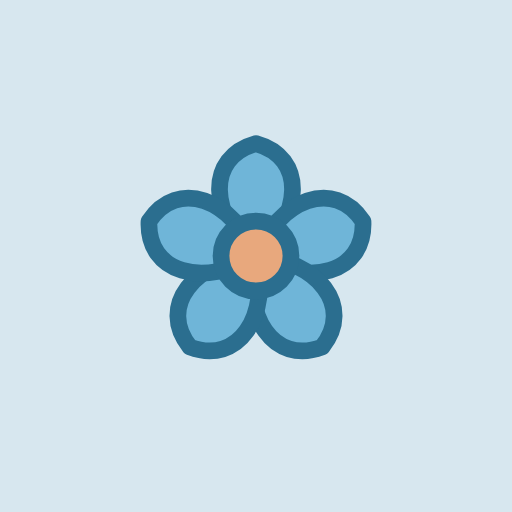
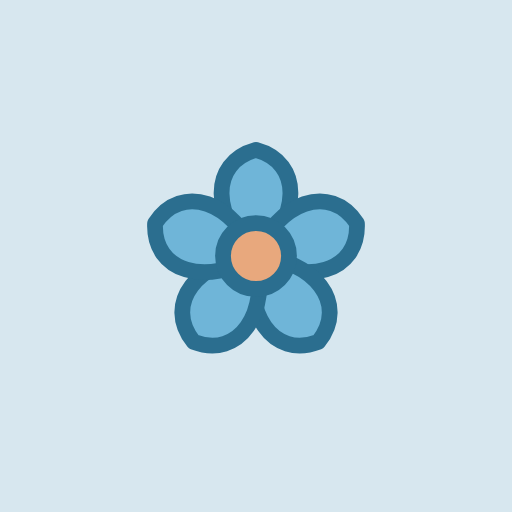
maskable 重做并删重复图标
- icon-maskable-512.png 与 icon-maskable.svg 按主站规格重做，花朵占画布 43%，边距与其余四站一致
- 删除 icons/favicon.svg，内容与 icon.svg 逐字节相同
- 新增 icons/preview.html
- background_color 由 #f6f9fc 改为 #EEF5F8

Changed region(s): [[0.25, 0.25, 0.75, 0.7188], [0.4062, 0.4375, 0.5938, 0.5938], [0.4688, 0.4062, 0.5312, 0.4688]]

diff --git a/icons/preview.html b/icons/preview.html
@@ -1,0 +1,354 @@
+<!DOCTYPE html>
+<html lang="zh-CN">
+<head>
+<meta charset="utf-8">
+<meta name="viewport" content="width=device-width, initial-scale=1">
+<title>数学错题本 · 图标预览</title>
+<link rel="icon" href="icon.svg" type="image/svg+xml">
+<link rel="icon" type="image/png" sizes="32x32" href="favicon-32.png">
+<link rel="apple-touch-icon" href="apple-touch-icon.png">
+<style>
+  :root{
+    --ink:#2B6E8F; --ink2:#377B9C; --muted:#6597B0; --faint:#81AABF;
+    --acc:#6FB5D8; --bg:#D7E7EF; --card:#FAFCFD;
+    --line:#AAC8D6; --line2:#B8D1DE;
+    --h1:#C6DBE5; --h2:#CDE0E9; --h3:#F0F6F9;
+  }
+  *{box-sizing:border-box}
+  body{
+    margin:0;padding:34px 22px 70px;
+    background:radial-gradient(900px 420px at 50% -80px,var(--h3),rgba(255,255,255,0)),var(--bg);
+    color:var(--ink2);
+    font-family:-apple-system,BlinkMacSystemFont,"Segoe UI","PingFang SC","Microsoft YaHei",sans-serif;
+    -webkit-font-smoothing:antialiased;
+  }
+  .wrap{max-width:900px;margin:0 auto}
+  header{display:flex;align-items:center;gap:16px;margin-bottom:4px}
+  header img{width:56px;height:56px;border-radius:13px;box-shadow:0 6px 18px rgba(0,0,0,.14)}
+  h1{margin:0;font-size:21px;color:var(--ink);letter-spacing:.3px}
+  .sub{margin:5px 0 0;font-size:12px;color:var(--muted)}
+  h2{font-size:14px;color:var(--ink);margin:34px 0 12px;letter-spacing:.4px}
+  .card{background:var(--card);border:1px solid var(--line);border-radius:10px;padding:18px}
+  .note{font-size:12px;color:var(--muted);line-height:1.85;margin:10px 0 0}
+  .note b{color:var(--ink)}
+  .note:first-child{margin-top:0}
+
+  /* 尺寸一览 */
+  .sizes{display:flex;flex-wrap:wrap;gap:20px;align-items:flex-end}
+  .size{display:flex;flex-direction:column;align-items:center;gap:8px}
+  .size img{display:block}
+  .size span{font-size:11px;color:var(--faint)}
+
+  /* 浅色 / 深色 */
+  .envs{display:flex;gap:16px;flex-wrap:wrap}
+  .env{display:flex;align-items:center;gap:20px;padding:14px 18px;border-radius:9px;border:1px solid}
+  .env-l{background:#FFFFFF;border-color:#E3E3E3}
+  .env-d{background:#20242B;border-color:#2E3540}
+  .env-img{display:flex;align-items:center;gap:16px}
+  .env-img img{display:block}
+  .env-l span{color:#8A8A8A}
+  .env-d span{color:#8E98A6}
+  .env-tag{font-size:11px}
+
+  /* 标签页 */
+  .tabbar{display:flex;align-items:flex-end;gap:6px;padding:9px 10px 0;background:var(--h1);border-radius:10px 10px 0 0}
+  .tab{display:flex;align-items:center;gap:8px;background:var(--card);border:1px solid var(--line);border-bottom:0;
+       border-radius:8px 8px 0 0;padding:8px 12px 9px;min-width:200px;max-width:280px}
+  .tab img{width:16px;height:16px;display:block;flex:none}
+  .tab b{font-size:12px;font-weight:500;color:var(--ink);white-space:nowrap;overflow:hidden;text-overflow:ellipsis}
+  .tab i{margin-left:auto;font-style:normal;color:var(--line2);font-size:12px}
+  .pagebar{background:var(--card);border:1px solid var(--line);border-top:0;border-radius:0 0 10px 10px;padding:10px 12px;font-size:12px;color:var(--faint)}
+  .tabbar.dk{background:#202124}
+  .tabbar.dk .tab{background:#35363A;border-color:#3C4043;border-bottom:0}
+  .tabbar.dk .tab b{color:#E8EAED}
+  .tabbar.dk .tab i{color:#8AB4F8}
+  .pagebar.dk{background:#292A2D;border-color:#3C4043;border-top:0;color:#9AA0A6}
+
+  /* 书签栏 */
+  .bmbar{display:flex;align-items:center;gap:10px;background:var(--h1);border-radius:9px;padding:8px 12px}
+  .bm{display:flex;align-items:center;gap:7px;background:var(--card);border:1px solid var(--line);border-radius:6px;padding:6px 10px}
+  .bm img{width:16px;height:16px;display:block}
+  .bm span{font-size:12px;color:var(--ink)}
+
+  /* 主屏图标 */
+  .masks{display:flex;flex-wrap:wrap;gap:26px;align-items:flex-start}
+  .mask{display:flex;flex-direction:column;align-items:center;gap:9px;width:132px}
+  .mask .frame{width:120px;height:120px;overflow:hidden;box-shadow:0 6px 18px rgba(0,0,0,.16)}
+  .frame img{width:100%;height:100%;display:block}
+  .r-ios{border-radius:27px}
+  .r-squircle{border-radius:28px}
+  .r-circle{border-radius:50%}
+  .mask span{font-size:11px;color:var(--faint);text-align:center;line-height:1.5}
+
+  /* Windows 任务栏 */
+  .winbox{display:flex;flex-direction:column;gap:14px}
+  .taskbar{display:flex;align-items:center;gap:16px;height:46px;padding:0 18px;border-radius:9px}
+  .tb-l{background:#F3F3F3;border:1px solid #E2E2E2}
+  .tb-d{background:#1F1F1F;border:1px solid #2E2E2E}
+  .tb-icon{position:relative;width:24px;height:24px;flex:none}
+  .tb-icon img{width:24px;height:24px;display:block;border-radius:3px}
+  .tb-icon::after{content:"";position:absolute;left:50%;transform:translateX(-50%);bottom:-7px;width:13px;height:2.5px;border-radius:2px}
+  .tb-l .tb-icon::after{background:#9C9C9C}
+  .tb-d .tb-icon::after{background:#8A8A8A}
+  .tb-l span{font-size:11px;color:#9A9A9A;margin-left:4px}
+  .tb-d span{font-size:11px;color:#7C7C7C;margin-left:4px}
+
+  /* 应用窗口 */
+  .appwin{max-width:560px;border:1px solid #D4D4D4;border-radius:10px;overflow:hidden;box-shadow:0 12px 30px rgba(0,0,0,.12)}
+  .titlebar{display:flex;align-items:center;gap:9px;height:38px;padding-left:13px;background:#D7E7EF}
+  .titlebar img{width:16px;height:16px;border-radius:3px;display:block}
+  .titlebar b{font-size:12px;font-weight:500;color:#2B6E8F}
+  .titlebar .btns{margin-left:auto;display:flex;height:38px}
+  .titlebar .btns i{width:46px;display:flex;align-items:center;justify-content:center;font-style:normal;font-size:11px;color:#4A4A4A}
+  .winbody{background:#FAFAFA;padding:20px 16px;min-height:76px;display:flex;flex-direction:column;gap:9px}
+  .winbody .bar{height:9px;border-radius:5px;background:#E7E7EA}
+  .winbody .bar.s{width:58%}
+  .winbody .bar.m{width:78%}
+
+  /* Android 启动画面 */
+  .splash-row{display:flex;gap:26px;align-items:center;flex-wrap:wrap}
+  .stage{background:#E9E9EC;border:1px solid #DCDCE1;border-radius:14px;padding:22px 26px;display:inline-flex}
+  .phone{width:172px;height:306px;border-radius:19px;overflow:hidden;display:flex;align-items:center;justify-content:center;
+         border:1px solid rgba(0,0,0,.16);box-shadow:0 8px 20px rgba(0,0,0,.16)}
+  .phone img{width:82px;height:82px;display:block}
+  .splash-row .note{margin:0;flex:1;min-width:250px}
+
+  /* 表格 */
+  table{width:100%;border-collapse:collapse;font-size:12px}
+  th,td{text-align:left;padding:8px 10px;border-bottom:1px solid var(--h2);vertical-align:top}
+  th{color:var(--faint);font-weight:600;font-size:11px;letter-spacing:.4px}
+  td code{background:var(--h3);border:1px solid var(--h1);border-radius:4px;padding:1px 5px;font-size:11px;color:var(--ink)}
+  .dim{color:var(--muted)}
+  pre{background:var(--h3);border:1px solid var(--h1);border-radius:8px;padding:12px 14px;overflow:auto;
+      font-size:12px;line-height:1.7;color:var(--ink);margin:8px 0 0}
+  pre code{font:inherit}
+  .cap{font-size:11px;color:var(--faint);margin:0 0 10px}
+</style>
+</head>
+<body>
+<div class="wrap">
+  <header>
+    <img src="icon-192.png" alt="图标">
+    <div>
+      <h1>数学错题本 · 图标</h1>
+      <p class="sub">标签页 / 书签 / 桌面快捷方式 / iOS / Android</p>
+    </div>
+  </header>
+
+  <h2>多尺寸预览</h2>
+  <div class="card">
+    <div class="sizes">
+      <div class="size"><img src="favicon-16.png" width="16" height="16" alt=""><span>16</span></div>
+      <div class="size"><img src="favicon-32.png" width="32" height="32" alt=""><span>32</span></div>
+      <div class="size"><img src="favicon-48.png" width="48" height="48" alt=""><span>48</span></div>
+      <div class="size"><img src="apple-touch-icon.png" width="118" height="118" alt=""><span>180</span></div>
+      <div class="size"><img src="icon-192.png" width="118" height="118" alt=""><span>192</span></div>
+      <div class="size"><img src="icon-512.png" width="118" height="118" alt=""><span>512</span></div>
+    </div>
+  </div>
+
+  <h2>浅色 / 深色环境</h2>
+  <div class="card">
+    <p class="cap">图标本身不透明，放到深色底上会显出一块浅色方片，这是正常的。要看的是花瓣和描边分不分得开。</p>
+    <div class="envs">
+      <div class="env env-l">
+        <div class="env-img">
+          <img src="favicon-16.png" width="16" height="16" alt="">
+          <img src="favicon-32.png" width="32" height="32" alt="">
+          <img src="favicon-48.png" width="48" height="48" alt="">
+        </div>
+        <span class="env-tag">浅色</span>
+      </div>
+      <div class="env env-d">
+        <div class="env-img">
+          <img src="favicon-16.png" width="16" height="16" alt="">
+          <img src="favicon-32.png" width="32" height="32" alt="">
+          <img src="favicon-48.png" width="48" height="48" alt="">
+        </div>
+        <span class="env-tag">深色</span>
+      </div>
+    </div>
+  </div>
+
+  <h2>浏览器标签页</h2>
+  <div class="card" style="padding:0;overflow:hidden">
+    <div class="tabbar">
+      <div class="tab"><img src="favicon-16.png" alt=""><b>数学错题本 · 数三</b><i>×</i></div>
+      <div class="tab" style="opacity:.55"><img src="favicon-16.png" alt=""><b>新标签页</b><i>×</i></div>
+    </div>
+    <div class="pagebar">地址栏左侧显示的正是 16×16 图标</div>
+  </div>
+  <div class="card" style="padding:0;overflow:hidden;margin-top:14px">
+    <div class="tabbar dk">
+      <div class="tab"><img src="favicon-16.png" alt=""><b>数学错题本 · 数三</b><i>×</i></div>
+      <div class="tab" style="opacity:.55"><img src="favicon-16.png" alt=""><b>新标签页</b><i>×</i></div>
+    </div>
+    <div class="pagebar dk">深色主题下同一张 16×16。图标不透明，所以是一块浅色小方片，所有网站都这样</div>
+  </div>
+
+  <h2>收藏夹 / 书签栏</h2>
+  <div class="card">
+    <div class="bmbar">
+      <div class="bm"><img src="favicon-16.png" alt=""><span>数学错题本</span></div>
+      <div class="bm" style="opacity:.6"><img src="favicon-16.png" alt=""><span>其他书签</span></div>
+    </div>
+  </div>
+
+  <h2>主屏图标</h2>
+  <div class="card">
+    <p class="cap">系统会自己套圆角或圆形，所以要看的是裁完还剩多少花。</p>
+    <div class="masks">
+      <div class="mask"><div class="frame r-ios"><img src="apple-touch-icon.png" alt=""></div><span>iOS / iPadOS<br>180 加圆角</span></div>
+      <div class="mask"><div class="frame r-squircle"><img src="icon-maskable-512.png" alt=""></div><span>Android 圆角方形<br>maskable</span></div>
+      <div class="mask"><div class="frame r-circle"><img src="icon-maskable-512.png" alt=""></div><span>Android 圆形<br>maskable</span></div>
+    </div>
+    <p class="note">
+      安卓的圆角方形和圆形读的都是 manifest 里 <code>purpose: "maskable"</code> 那张，所以两个框里的花一样大。如果没声明 maskable，系统会拿普通图标往自适应框里塞，花会缩小并垫一圈底色。
+    </p>
+  </div>
+
+  <h2>Windows 任务栏与应用窗口</h2>
+  <div class="card">
+    <div class="winbox">
+      <div class="taskbar tb-l">
+        <div class="tb-icon"><img src="icon-192.png" alt=""></div>
+        <div class="tb-icon" style="opacity:.45"><img src="icon-192.png" alt=""></div>
+        <span>浅色任务栏 · 24×24</span>
+      </div>
+      <div class="taskbar tb-d">
+        <div class="tb-icon"><img src="icon-192.png" alt=""></div>
+        <div class="tb-icon" style="opacity:.45"><img src="icon-192.png" alt=""></div>
+        <span>深色任务栏 · 24×24</span>
+      </div>
+      <div class="appwin">
+        <div class="titlebar">
+          <img src="favicon-32.png" alt="">
+          <b>数学错题本</b>
+          <div class="btns"><i>—</i><i>□</i><i>✕</i></div>
+        </div>
+        <div class="winbody">
+          <div class="bar m"></div>
+          <div class="bar s"></div>
+        </div>
+      </div>
+    </div>
+    <p class="note">
+      装成应用后，任务栏取 192 或 512 那张缩到 24px 显示；窗口标题栏底色是 manifest 的 <code>theme_color</code>（<code>#D7E7EF</code>），左边那颗小图标取 32 那张。
+    </p>
+  </div>
+
+  <h2>Android 启动画面</h2>
+  <div class="card">
+    <div class="splash-row">
+      <div>
+        <div class="stage">
+          <div class="phone" style="background:#EEF5F8"><img src="icon-512.png" alt=""></div>
+        </div>
+        <p class="cap" style="margin:10px 0 0;text-align:center">底色 <code>#EEF5F8</code></p>
+      </div>
+      <p class="note">
+        点开应用那一瞬间显示的画面：底色取 manifest 的 <code>background_color</code>，中间那张来自 512 图标。<br>
+        所以背景色如果和图标底色差太远，这一下会闪；本页这张是按真实值铺的，看着不突兀就对了。
+      </p>
+    </div>
+  </div>
+
+  <h2>文件清单</h2>
+  <div class="card">
+    <table>
+      <tr><th>文件</th><th>尺寸</th><th>用途</th></tr>
+      <tr><td colspan="3" class="dim">上一级目录（站点根）</td></tr>
+      <tr><td><code>index.html</code></td><td>—</td><td>主页面，按下方写法引用本目录图标</td></tr>
+      <tr><td><code>manifest.webmanifest</code></td><td>—</td><td>PWA 声明，图标指向本目录</td></tr>
+      <tr><td colspan="3" class="dim">本目录 <code>icons/</code></td></tr>
+      <tr><td><code>icon.svg</code></td><td>矢量</td><td>标签页、书签、Safari 固定标签页的源图</td></tr>
+      <tr><td><code>icon-maskable.svg</code></td><td>矢量</td><td>上面那份加 <code>scale(0.717)</code>，留出裁切安全边距</td></tr>
+      <tr><td><code>favicon.ico</code></td><td>16/32/48</td><td>传统标签页、Windows 快捷方式</td></tr>
+      <tr><td><code>favicon-16.png</code></td><td>16</td><td>标签页、书签栏（加粗专用版）</td></tr>
+      <tr><td><code>favicon-32.png</code></td><td>32</td><td>高分辨率标签页、书签、窗口小图标</td></tr>
+      <tr><td><code>favicon-48.png</code></td><td>48</td><td>Windows 站点图标</td></tr>
+      <tr><td><code>apple-touch-icon.png</code></td><td>180</td><td>iOS / iPadOS 添加到主屏幕</td></tr>
+      <tr><td><code>icon-192.png</code></td><td>192</td><td>Android 主屏幕、任务栏</td></tr>
+      <tr><td><code>icon-512.png</code></td><td>512</td><td>Android 启动画面 / PWA</td></tr>
+      <tr><td><code>icon-maskable-512.png</code></td><td>512</td><td>Android 自适应图标</td></tr>
+      <tr><td><code>preview.html</code></td><td>—</td><td>本页，只作查看用，不参与站点运行</td></tr>
+    </table>
+  </div>
+
+  <h2>接入方式</h2>
+  <div class="card">
+    <p class="note"><code>index.html</code> 的 <code>&lt;head&gt;</code> 里写这六条，路径都指向本目录：</p>
+<pre>&lt;link rel="icon" href="icons/icon.svg" type="image/svg+xml"&gt;
+&lt;link rel="icon" href="icons/favicon.ico" sizes="16x16 32x32 48x48"&gt;
+&lt;link rel="icon" type="image/png" sizes="32x32" href="icons/favicon-32.png"&gt;
+&lt;link rel="icon" type="image/png" sizes="16x16" href="icons/favicon-16.png"&gt;
+&lt;link rel="apple-touch-icon" sizes="180x180" href="icons/apple-touch-icon.png"&gt;
+&lt;link rel="mask-icon" href="icons/icon.svg" color="#2B6E8F"&gt;</pre>
+    <p class="note">安装成应用还要靠 manifest，本目录相关的这几行是：</p>
+<pre>"icons": [
+  { "src": "icons/icon.svg",             "sizes": "any",     "type": "image/svg+xml", "purpose": "any" },
+  { "src": "icons/icon-192.png",         "sizes": "192x192", "type": "image/png",     "purpose": "any" },
+  { "src": "icons/icon-512.png",         "sizes": "512x512", "type": "image/png",     "purpose": "any" },
+  { "src": "icons/icon-maskable-512.png","sizes": "512x512", "type": "image/png",     "purpose": "maskable" }
+],
+"theme_color": "#D7E7EF",
+"background_color": "#EEF5F8"</pre>
+  </div>
+
+  <h2>设计说明</h2>
+  <div class="card">
+    <p class="note">
+      <b>配色</b>：底色 <code>#D7E7EF</code>、花瓣 <code>#6FB5D8</code>、描边 <code>#2B6E8F</code>、花心 <code>#E8A87D</code>。整个图标只有这四个值，换站换这四个就够。<br>
+      <b>两处底色</b>：应用窗口顶栏取 <code>theme_color</code> <code>#D7E7EF</code>，启动画面取 <code>background_color</code> <code>#EEF5F8</code>，这两项分开设置，改一处别忘了另一处。<br>
+      <b>16×16</b>：原图描边缩到 16px 只剩约 0.7px，容易糊成一团，所以这张单独加粗描边、整体略放大，保证标签页上还能看出五瓣和花心。<br>
+      <b>maskable 版</b>：安卓会按自己的形状裁切，所以内容缩到 71.7%，花瓣稳稳落在安全区内，圆角、圆形、水滴形怎么裁都切不到。
+    </p>
+  </div>
+
+  <h2>Svg 源码</h2>
+  <div class="card">
+    <p class="note">
+      所有尺寸都从这一个矢量源出，花型只有这一套。要换站，只改四个颜色：底色、花瓣、描边、花心。<br>
+      文件里是压成一整行的，下面按行拆开并加了注释，渲染结果与 <code>icon.svg</code> 逐像素相同，可以直接整段复制另存。
+    </p>
+<pre>&lt;svg xmlns="http://www.w3.org/2000/svg" viewBox="0 0 512 512" width="512" height="512"&gt;
+
+  &lt;!-- 底色 --&gt;
+  &lt;rect width="512" height="512" fill="#D7E7EF"/&gt;
+
+  &lt;!-- 整朵花居中：translate 定到画布中心，scale 控制大小 --&gt;
+  &lt;g transform="translate(256,256) scale(1)"&gt;
+
+    &lt;!-- 一片花瓣，复制五份，靠 rotate 转出整圈；fill 花瓣色，stroke 描边色 --&gt;
+    &lt;path d="M0 0 C -62 -52, -66 -130, 0 -148 C 66 -130, 62 -52, 0 0 Z"
+          fill="#6FB5D8" stroke="#2B6E8F" stroke-width="22" stroke-linejoin="round"
+          transform="rotate(0)"/&gt;
+    &lt;path d="M0 0 C -62 -52, -66 -130, 0 -148 C 66 -130, 62 -52, 0 0 Z"
+          fill="#6FB5D8" stroke="#2B6E8F" stroke-width="22" stroke-linejoin="round"
+          transform="rotate(72)"/&gt;
+    &lt;path d="M0 0 C -62 -52, -66 -130, 0 -148 C 66 -130, 62 -52, 0 0 Z"
+          fill="#6FB5D8" stroke="#2B6E8F" stroke-width="22" stroke-linejoin="round"
+          transform="rotate(144)"/&gt;
+    &lt;path d="M0 0 C -62 -52, -66 -130, 0 -148 C 66 -130, 62 -52, 0 0 Z"
+          fill="#6FB5D8" stroke="#2B6E8F" stroke-width="22" stroke-linejoin="round"
+          transform="rotate(216)"/&gt;
+    &lt;path d="M0 0 C -62 -52, -66 -130, 0 -148 C 66 -130, 62 -52, 0 0 Z"
+          fill="#6FB5D8" stroke="#2B6E8F" stroke-width="22" stroke-linejoin="round"
+          transform="rotate(288)"/&gt;
+
+    &lt;!-- 花心 --&gt;
+    &lt;circle r="46" fill="#E8A87D" stroke="#2B6E8F" stroke-width="22"/&gt;
+
+  &lt;/g&gt;
+&lt;/svg&gt;</pre>
+    <p class="note">
+      <b>maskable 版</b>只差一处，其余整段照抄，把那行换成：
+    </p>
+<pre>&lt;g transform="translate(256,256) scale(0.717)"&gt;</pre>
+    <p class="note">
+      0.717 是这么定的：安卓自适应图标只有中心那个直径占画布 80% 的圆一定不会被裁。花朵外接圆直径本来是画布的 62%，乘 0.717 后约 44%，四周还留一半余量，怎么裁都碰不到花瓣。
+    </p>
+  </div>
+</div>
+</body>
+</html>
